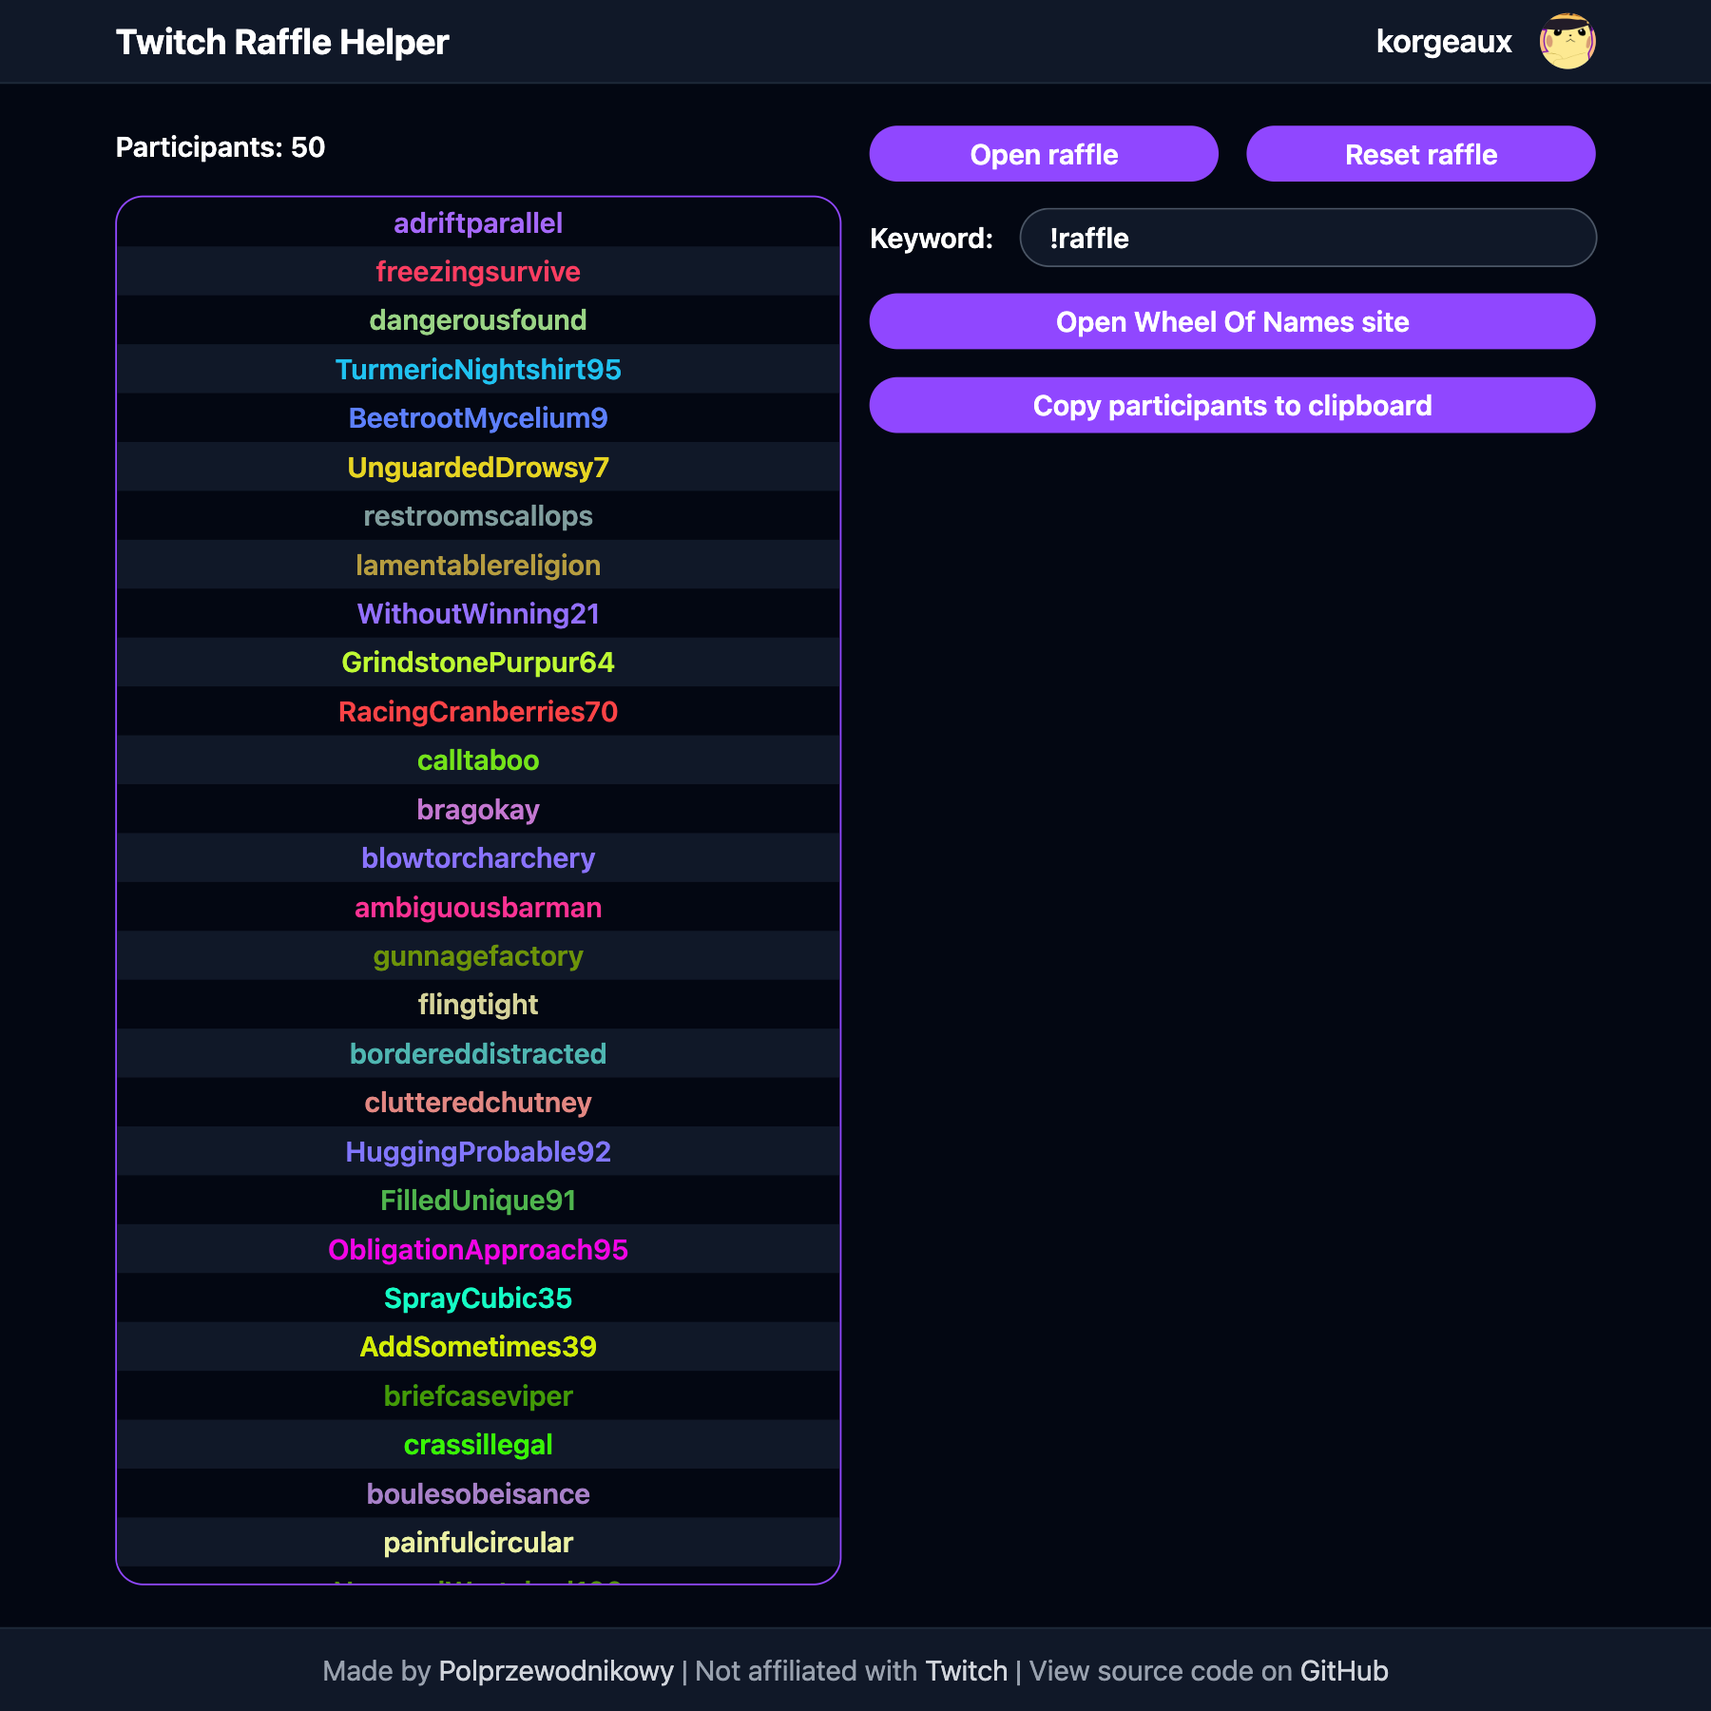
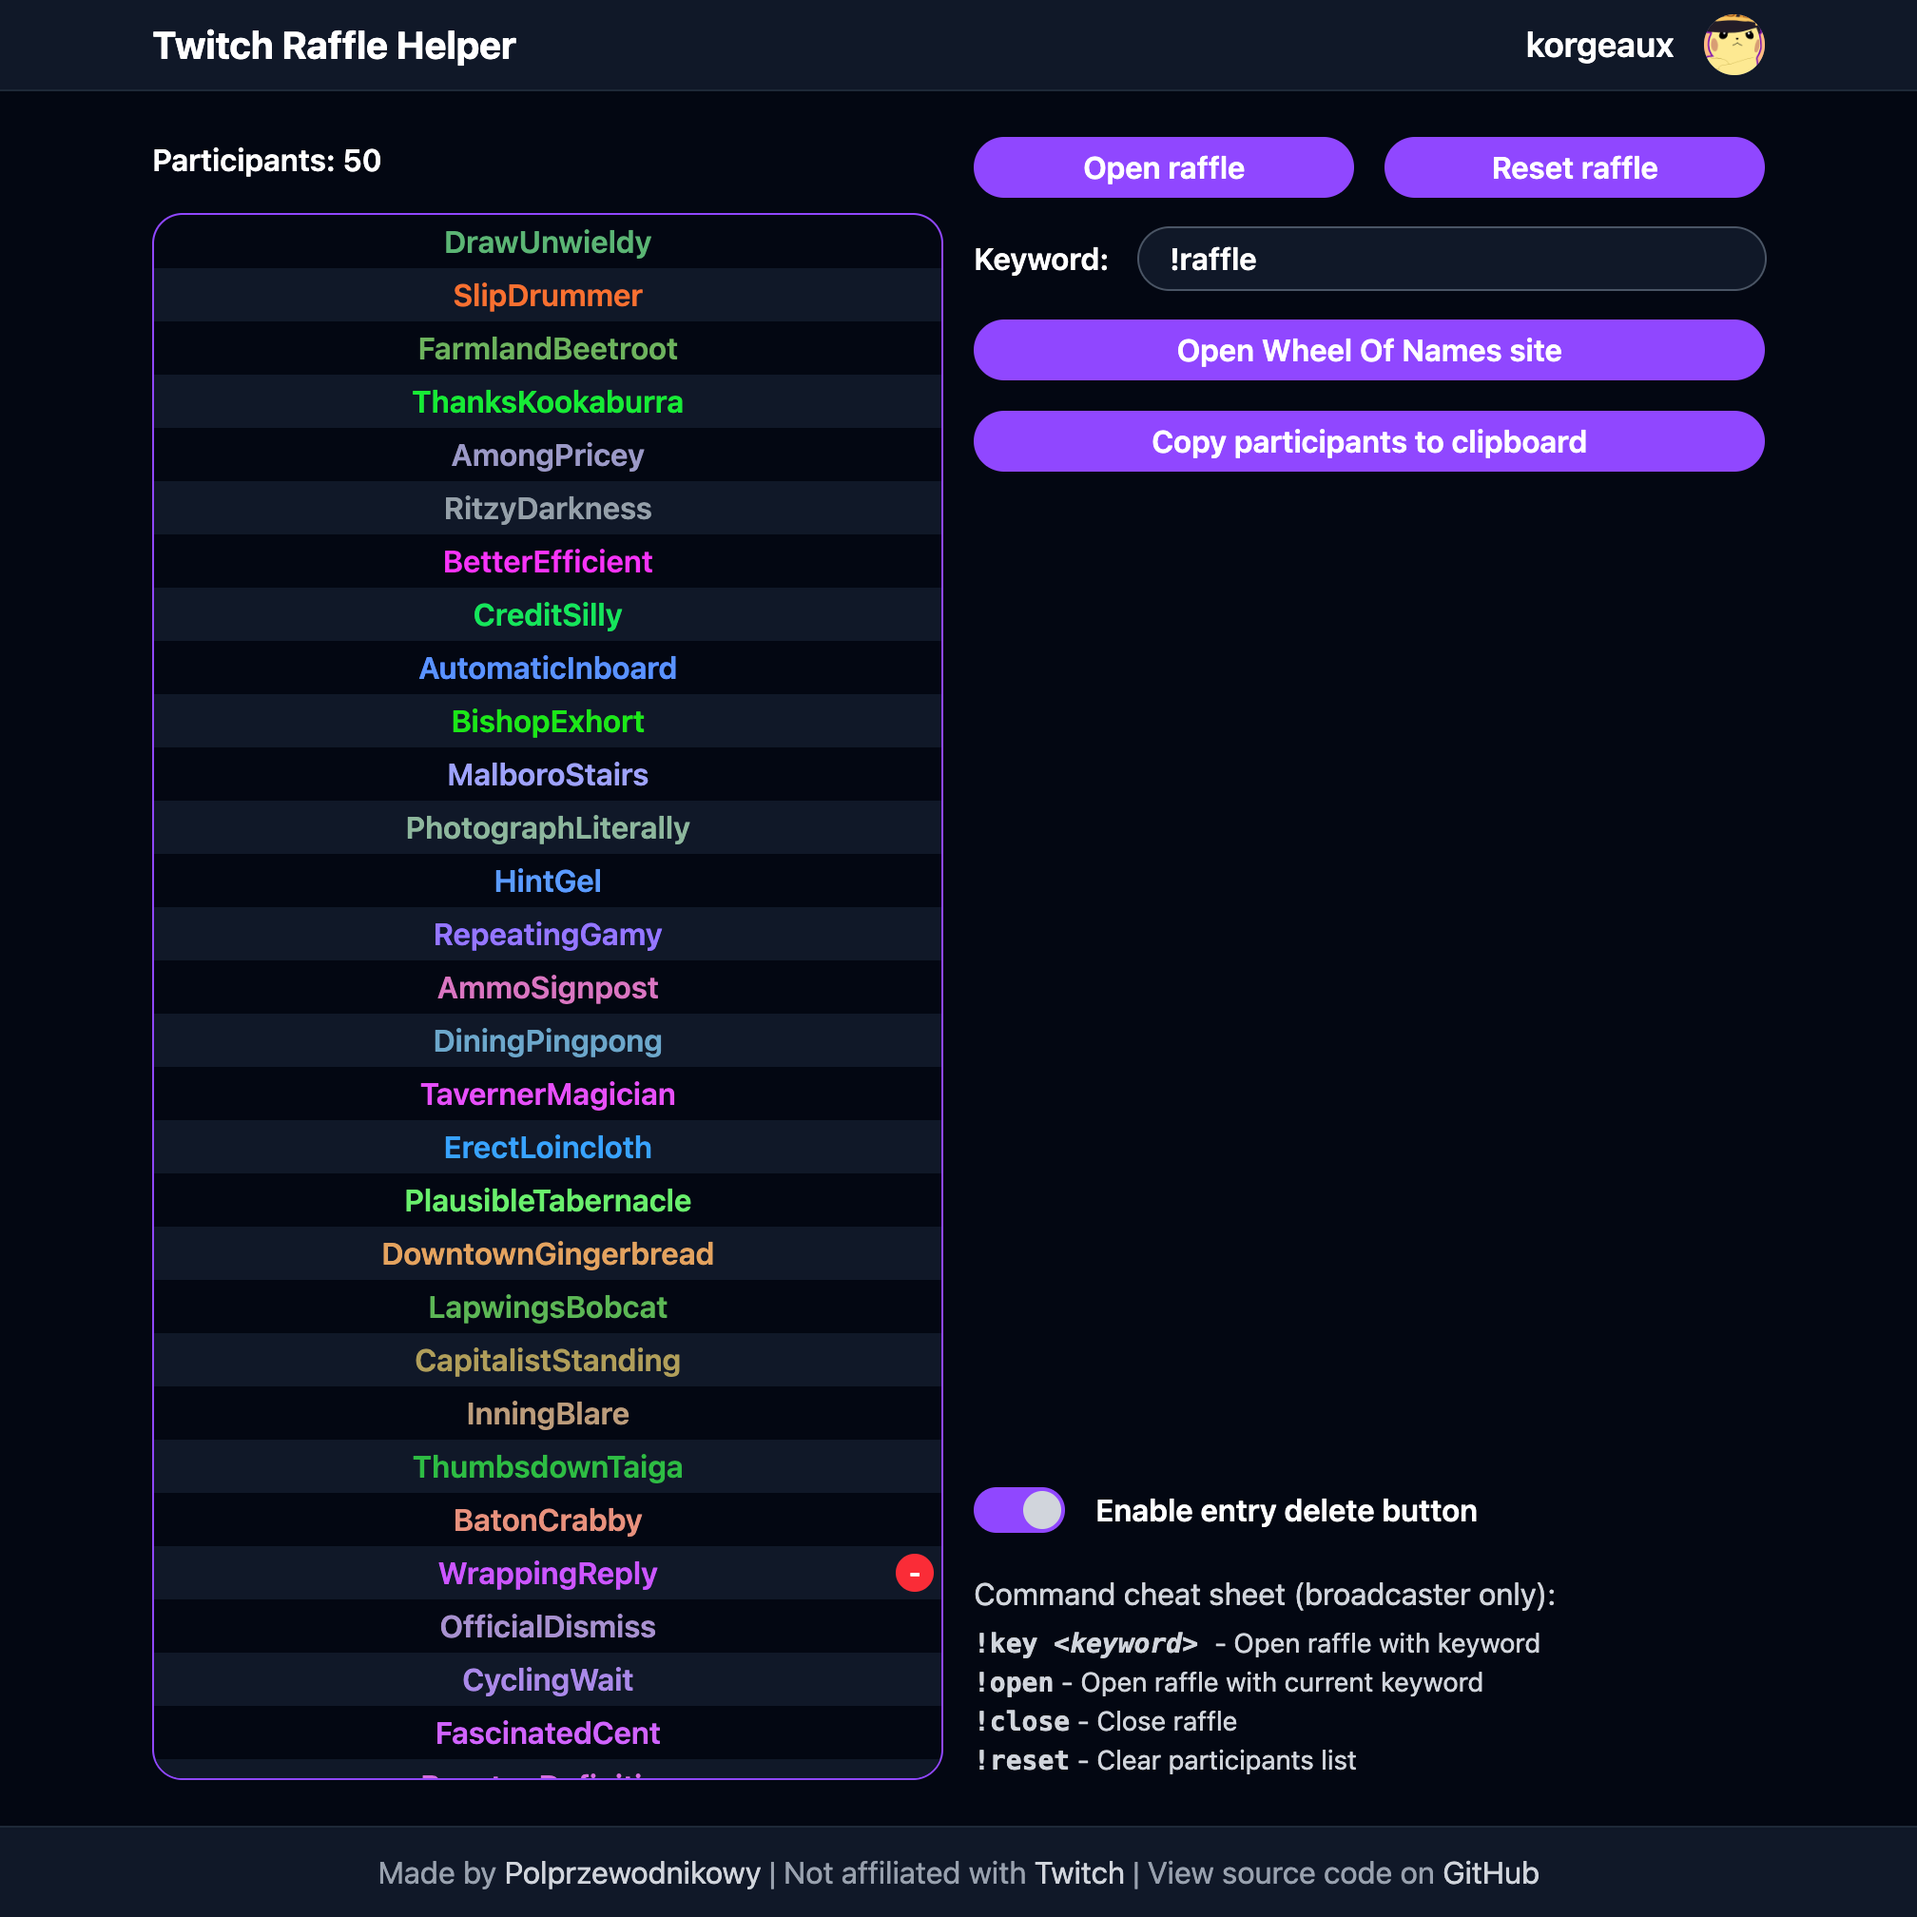
Added toggle to enable delete button

diff --git a/index.html b/index.html
@@ -61,26 +61,32 @@
               Copy participants to clipboard
             </button>
           </div>
+          <div class="h-full"></div>
+          <div>
+            <input id="enableDelete" type="checkbox" />
+            <label for="enableDelete">Enable entry delete button</label>
+          </div>
           <div class="chatControlHelp">
-            <h1>Commands cheat sheet (broadcaster only):</h1>
+            <h1>Command cheat sheet (broadcaster only):</h1>
             <div>
-              <span
-                ><code
-                  ><strong>!key <i>[keyword]</i></strong></code
-                >
-                - Open raffle with keyword</span
-              >
-              <span
-                ><code><strong>!open</strong></code> - Open raffle with current
-                keyword</span
-              >
-              <span
-                ><code><strong>!close</strong></code> - Close raffle</span
-              >
-              <span
-                ><code><strong>!reset</strong></code> - Clear participants
-                list</span
-              >
+              <span>
+                <code>
+                  <strong>!key <i>&lt;keyword&gt;</i></strong>
+                </code>
+                - Open raffle with keyword
+              </span>
+              <span>
+                <code><strong>!open</strong></code>
+                - Open raffle with current keyword
+              </span>
+              <span>
+                <code><strong>!close</strong></code>
+                - Close raffle
+              </span>
+              <span>
+                <code><strong>!reset</strong></code>
+                - Clear participants list
+              </span>
             </div>
           </div>
         </div>
@@ -90,19 +96,19 @@
 
   <footer>
     <div class="footerContainer">
-      <span
-        >Made by
-        <a href="https://github.com/Polprzewodnikowy">Polprzewodnikowy</a></span
-      >
+      <span>
+        Made by
+        <a href="https://github.com/Polprzewodnikowy">Polprzewodnikowy</a>
+      </span>
       <span class="px-1">|</span>
       <span>Not affiliated with <a href="https://twitch.tv">Twitch</a></span>
       <span class="px-1">|</span>
-      <span
-        >View source code on
-        <a href="https://github.com/Polprzewodnikowy/TwitchRaffleHelper"
-          >GitHub</a
-        ></span
-      >
+      <span>
+        View source code on
+        <a href="https://github.com/Polprzewodnikowy/TwitchRaffleHelper">
+          GitHub
+        </a>
+      </span>
     </div>
   </footer>
 

diff --git a/styles.css b/styles.css
@@ -116,6 +116,55 @@ input[type="text"] {
   }
 }
 
+input[type="checkbox"] {
+  @apply appearance-none cursor-pointer relative h-6 w-12 my-1 py-0.5 rounded-full bg-twitch-purple-active;
+
+  &::after {
+    content: "";
+    @apply flex absolute h-5 w-5 mx-0.5 rounded-full bg-gray-400 transition-transform duration-150;
+  }
+
+  &:hover {
+    @apply bg-twitch-purple-hover;
+  }
+
+  &:active {
+    @apply bg-twitch-purple-active;
+  }
+
+  &:checked {
+    @apply bg-twitch-purple;
+
+    &:hover {
+      @apply bg-twitch-purple-hover;
+    }
+
+    &:active {
+      @apply bg-twitch-purple;
+    }
+
+    &::after {
+      @apply translate-x-6 bg-gray-300;
+    }
+  }
+
+  &:disabled {
+    @apply bg-gray-600;
+
+    &::after {
+      @apply bg-gray-400;
+    }
+
+    & + label {
+      @apply text-gray-400;
+    }
+  }
+}
+
+label {
+  @apply flex cursor-pointer font-semibold;
+}
+
 ul {
   @apply flex flex-col-reverse justify-end w-full;
 
@@ -172,13 +221,13 @@ ul {
 
     & > a,
     > button,
-    > input {
+    > input[type="text"] {
       @apply grow shrink basis-0;
     }
   }
 
   & > .chatControlHelp {
-    @apply flex flex-col items-start text-gray-300 space-y-1 mt-auto;
+    @apply flex flex-col items-start text-gray-300 space-y-1;
 
     & > h1 {
       @apply text-base;

diff --git a/src/main.ts b/src/main.ts
@@ -46,6 +46,16 @@ const keywordInput = control.addInputHandler(
   defaultKeyword,
 );
 
+const enableDeleteToggle = control.addInputHandler("enableDelete", (event) => {
+  if (!raffle.isOpen) {
+    if (event.target.checked) {
+      raffleEntriesList.classList.add("editable");
+    } else {
+      raffleEntriesList.classList.remove("editable");
+    }
+  }
+});
+
 const raffleButtons = {
   open: control.addButtonHandler("openRaffleButton", (event) => {
     raffle.open();
@@ -59,6 +69,7 @@ const raffleButtons = {
 
     raffleButtons.copyParticipants.disabled = true;
     raffleButtons.openWheelSite.setAttribute("disabled", "");
+    enableDeleteToggle.disabled = true;
 
     raffleEntriesList.classList.remove("editable");
   }),
@@ -77,8 +88,11 @@ const raffleButtons = {
     if (!raffle.isEmpty) {
       raffleButtons.openWheelSite.removeAttribute("disabled");
     }
+    enableDeleteToggle.disabled = false;
 
-    raffleEntriesList.classList.add("editable");
+    if (enableDeleteToggle.checked) {
+      raffleEntriesList.classList.add("editable");
+    }
   }),
 
   reset: control.addButtonHandler("resetRaffleButton", () => {
